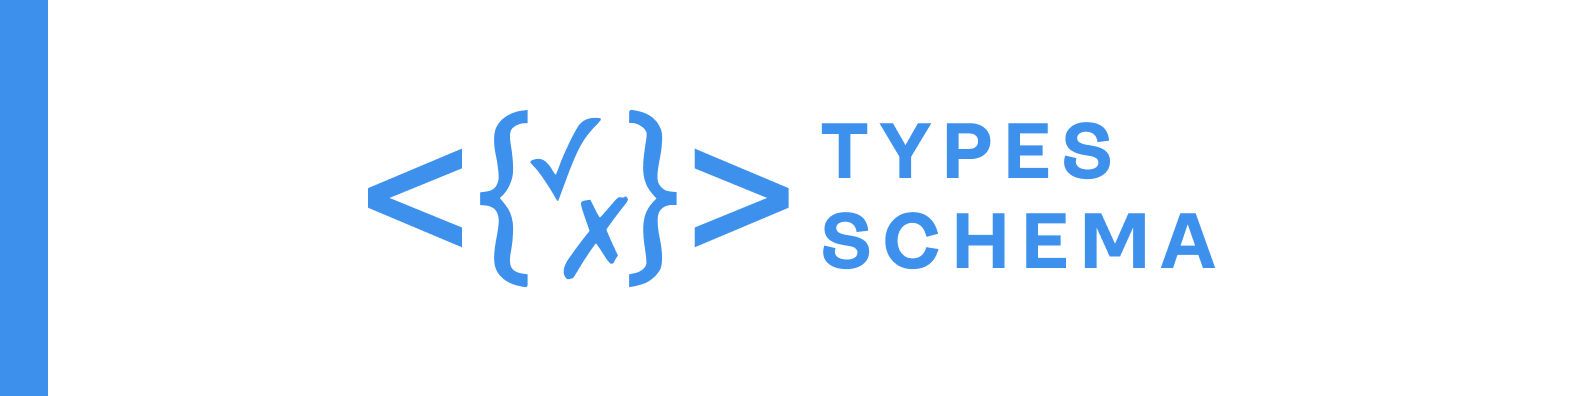
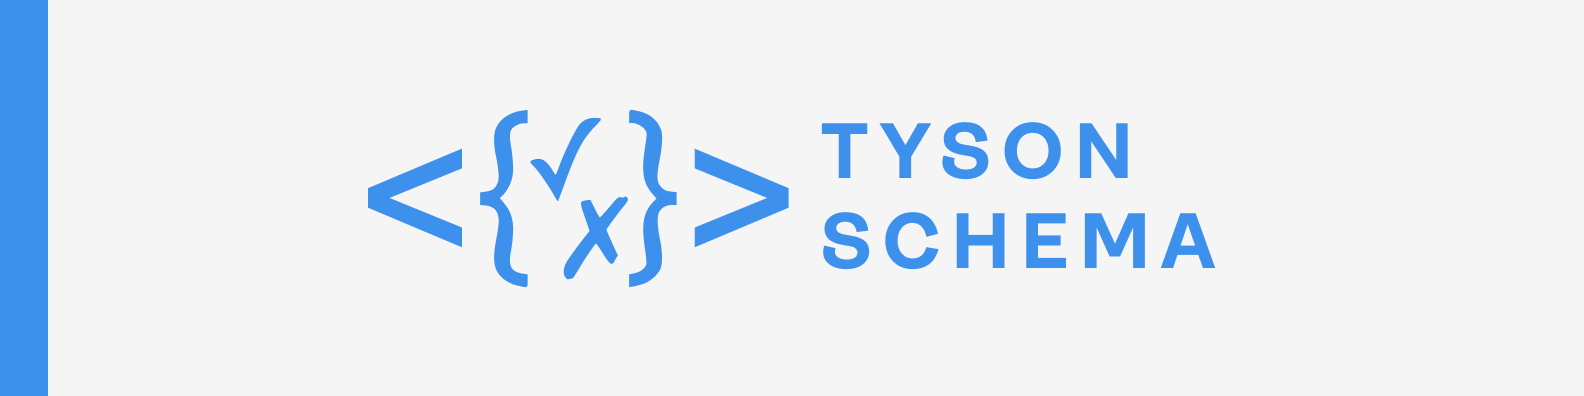
feat: new name

Changed region(s): [[0.5878, 0.303, 0.7115, 0.4545]]

diff --git a/test/tool/1.test.ts b/test/tool/1.test.ts
@@ -1,6 +1,6 @@
 import { strict as assert } from "node:assert";
 import test from "node:test";
-import { getToolSchema, type ToolSchema } from "types-schema";
+import { getToolSchema, type ToolSchema } from "tyson-schema";
 
 const tool: ToolSchema = {
 	type: "function",
@@ -20,7 +20,7 @@ const tool: ToolSchema = {
 			},
 		},
 		returns: {
-			type: "number"
+			type: "number",
 		},
 		required: ["city"],
 		additionalProperties: false,
@@ -31,7 +31,7 @@ const expected = `// Tool to get weather
 export type WeatherSchema = (params: {
   city: string,
   unit?: "celsius" | "fahrenheit"
-}) => Promise<number>`
+}) => Promise<number>`;
 
 const estimatedTime = 1;
 

diff --git a/test/schema/2.test.ts b/test/schema/2.test.ts
@@ -1,6 +1,6 @@
 import { strict as assert } from "node:assert";
 import test from "node:test";
-import { getTypesSchema, type JsonSchema } from "types-schema";
+import { getTypesSchema, type JsonSchema } from "tyson-schema";
 
 const schema: JsonSchema = {
 	title: "user profile",

diff --git a/test/schema/3.test.ts b/test/schema/3.test.ts
@@ -1,6 +1,6 @@
 import { strict as assert } from "node:assert";
 import test from "node:test";
-import { getTypesSchema, type JsonSchema } from "types-schema";
+import { getTypesSchema, type JsonSchema } from "tyson-schema";
 
 const schema: JsonSchema = {
 	title: "status",

diff --git a/test/schema/4.test.ts b/test/schema/4.test.ts
@@ -1,6 +1,6 @@
 import { strict as assert } from "node:assert";
 import test from "node:test";
-import { getTypesSchema, type JsonSchema } from "types-schema";
+import { getTypesSchema, type JsonSchema } from "tyson-schema";
 
 const schema: JsonSchema = {
 	title: "agent",

diff --git a/test/schema/1.test.ts b/test/schema/1.test.ts
@@ -1,6 +1,6 @@
 import { strict as assert } from "node:assert";
 import test from "node:test";
-import { getTypesSchema, type JsonSchema } from "types-schema";
+import { getTypesSchema, type JsonSchema } from "tyson-schema";
 
 const schema: JsonSchema = {
 	title: "user",

diff --git a/test/tool/2.test.ts b/test/tool/2.test.ts
@@ -1,6 +1,6 @@
 import { strict as assert } from "node:assert";
 import test from "node:test";
-import { getToolSchema, type ToolSchema } from "types-schema";
+import { getToolSchema, type ToolSchema } from "tyson-schema";
 
 const tool: ToolSchema = {
 	type: "function",

diff --git a/test/tool/3.test.ts b/test/tool/3.test.ts
@@ -1,6 +1,6 @@
 import { strict as assert } from "node:assert";
 import test from "node:test";
-import { getToolSchema, type ToolSchema } from "types-schema";
+import { getToolSchema, type ToolSchema } from "tyson-schema";
 
 const tool: ToolSchema = {
 	type: "function",

diff --git a/test/tool/4.test.ts b/test/tool/4.test.ts
@@ -1,6 +1,6 @@
 import { strict as assert } from "node:assert";
 import test from "node:test";
-import { getToolSchema, type ToolSchema } from "types-schema";
+import { getToolSchema, type ToolSchema } from "tyson-schema";
 
 const tool: ToolSchema = {
 	type: "function",

diff --git a/README.md b/README.md
@@ -1,8 +1,8 @@
-<a href="https://github.com/rajatsandeepsen/types-schema">
-    <img alt="cover" src="https://github.com/rajatsandeepsen/types-schema/blob/main/cover.png?raw=true" />
+<a href="https://github.com/rajatsandeepsen/tyson-schema">
+    <img alt="cover" src="https://github.com/rajatsandeepsen/tyson-schema/blob/main/cover.png?raw=true" />
 </a>
 
-# Types-Schema
+# Tyson-Schema
 
 Turn your JSON schema into TypeScript code.
 
@@ -11,22 +11,23 @@ Turn your JSON schema into TypeScript code.
 - [x] Simple & Fast
 - [x] Support functions & tools
 - [x] Customizable options
+- [x] Support comments
 - [ ] Nested tools
 - [ ] Support `$defs`, `$ref`, `pattern`, `$id`, `$schema`, `minProperties`, `maxProperties`
-- [ ] Support comments & examples
+- [ ] Support examples
 
 ## Setup
 
 You can install the package using npm, bun, nubs or pnpm
 
 ```bash
-npm i types-schema
+npm i tyson-schema
 ```
 
 ### Schema
 
 ```ts
-import { getTypesSchema } from "types-schema"
+import { getTypesSchema } from "tyson-schema"
 
 const schema = {
 	title: "user",
@@ -60,7 +61,7 @@ export type User = {
 ### Tools
 
 ```ts
-import { getToolSchema } from "types-schema"
+import { getToolSchema } from "tyson-schema"
 
 const tool = {
 	type: "function",
@@ -105,6 +106,7 @@ Please check out the [official json-schema specs](https://json-schema.org/specif
 
 ## Inspirations
 
+- [tool-schema](https://github.com/slegarraga/tool-schema)
 - [json-schema-to-ts](https://github.com/ThomasAribart/json-schema-to-ts)
 - [json-schema-to-ts](https://github.com/ThomasAribart/json-schema-to-ts)
 - [json-schema-to-typescript](https://github.com/bcherny/json-schema-to-typescript)
